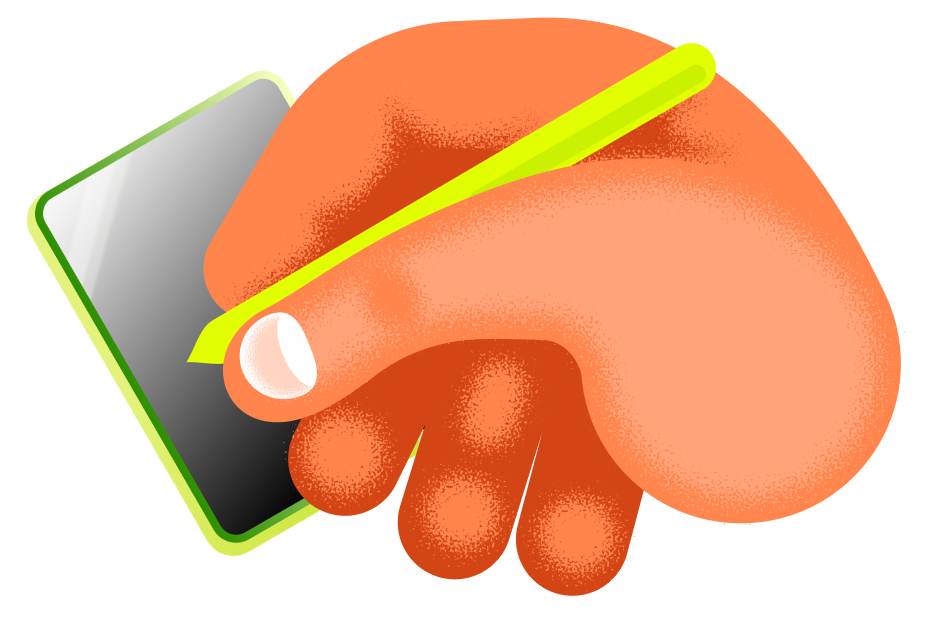
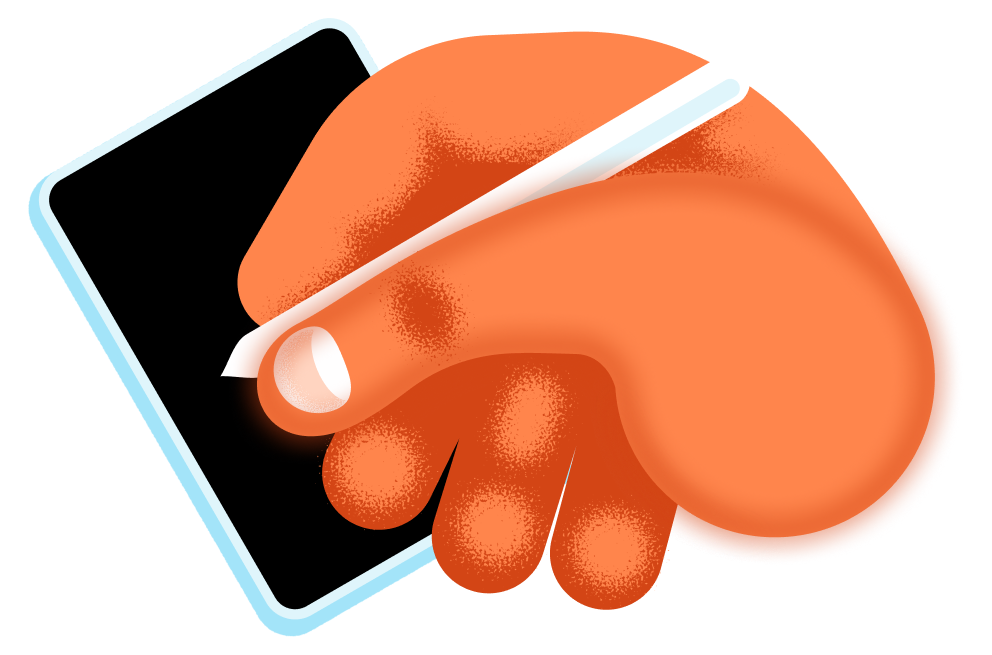
fix(work): swap in the new iPad illustration
Refined version (cleaner tablet shape, blue edge, white stylus) --
genuinely different artwork, not just a re-export. Cleared .next and
node_modules/.cache and restarted the dev server before verifying, to
rule out the stale image-optimizer cache that bit the earlier Twingo
swaps when reusing the same asset path.

diff --git a/app/work/page.tsx b/app/work/page.tsx
@@ -25,7 +25,7 @@ export default function WorkPage() {
       {/* A transparent PNG, not a framed photo -- same treatment as the
           Contact/Info page illustrations: next/image directly,
           object-contain, no Plate frame or background surface. */}
-      <div className="relative aspect-[932/617] w-full max-w-[210px]">
+      <div className="relative aspect-[992/655] w-full max-w-[210px]">
         <Image
           src="/illustrations/ipad.png"
           alt=""
